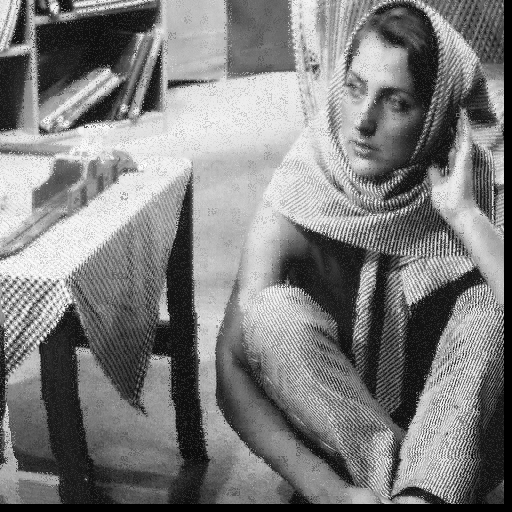
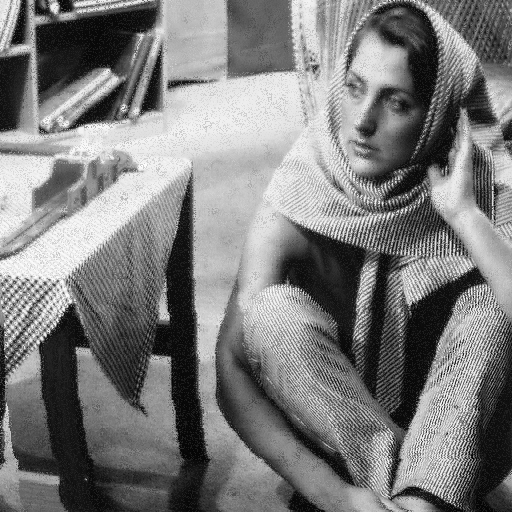
Overlapping patches fixed bug

diff --git a/DataLoader.py b/DataLoader.py
@@ -64,11 +64,11 @@ class DataLoader:
             mask_validation = np.load('./data/masks_validation/'+self._dataset['mask_validation'][kk]+'.npy')
 
             # Iterate over the first dimension of the image with an x-step
-            for ii in range(0,image.shape[0]-self._patch_dims[0],self._step[0]):
+            for ii in range(0,image.shape[0]-self._patch_dims[0]+1,self._step[0]):
                 # Ending index for the current patch extracted from the first fimensions
                 ii_end = (ii+self._patch_dims[0])
                 # Iterate over the second dimension of the image with an x-step
-                for jj in range(0,image.shape[1]-self._patch_dims[1],self._step[1]):
+                for jj in range(0,image.shape[1]-self._patch_dims[1]+1,self._step[1]):
                     
                     # Ending index for the current patch extracted from the second fimensions
                     jj_end = (jj+self._patch_dims[1])
@@ -126,27 +126,23 @@ class DataLoader:
 
             # Image to fill
             image_new = np.zeros(image.shape, dtype=int)
-            
-
 
             # Go over the first image dimension with a step
-            for ii in range(0,image.shape[0]-self._patch_dims[0],self._step[0]):
+            for ii in range(0,image.shape[0]-self._patch_dims[0]+1,self._step[0]):
                 
                 # End index in the first dimension
                 ii_end = (ii+self._patch_dims[0])
 
                 # Go over the second dimension 
-                for jj in range(0,image.shape[1]-self._patch_dims[1],self._step[1]):
-
-                    im_ptch = np.zeros(self._patch_dims,dtype=int)
+                for jj in range(0,image.shape[1]-self._patch_dims[1]+1,self._step[1]):
 
                     # End index in the second dimension
                     jj_end = jj+self._patch_dims[1]
 
-                    im_ptch = im_ptch + np.divide(patches[cnt], self._merging_map[kk, ii:ii_end, jj:jj_end])
+                    image_new[ii:ii_end,jj:jj_end] = image_new[ii:ii_end,jj:jj_end] + np.divide(patches[cnt], self._merging_map[kk, ii:ii_end, jj:jj_end])
 
                     # Only insert reconstructed (missing before values)
-                    image_new[ii:ii_end,jj:jj_end] = np.multiply(im_ptch, (1 - msk_tr[cnt]))+np.multiply(image[ii:ii_end, jj:jj_end], msk_tr[cnt])
+                    image_new[ii:ii_end,jj:jj_end] = np.multiply(image_new[ii:ii_end,jj:jj_end], (1 - msk_tr[cnt]))+np.multiply(image[ii:ii_end, jj:jj_end], msk_tr[cnt])
                     cnt = cnt+1
             #imageio.imsave(name+str(kk)+".png",im=self._merging_map[kk,:,:])
             imageio.imsave('./data/reconstructed/'+name+".png",im=image_new)

diff --git a/main.py b/main.py
@@ -33,15 +33,15 @@ i.e. decrease the magnitude of input inversly proportional to the increase in da
 
 if __name__ =="__main__":
     # Set parameters
-    patch_dims = [16,16]
+    patch_dims = [8,8]
     image_dims = [512,512]
-    steps = [2,2]
+    steps = [1,1]
     input_units = patch_dims[0]*patch_dims[1]
-    learning_rate = 0.01
+    learning_rate = 0.1
     batch_size = 32
-    epoches = 1000
+    epoches = 100
     validation_step = 2
-    hiddent_units = 128
+    hiddent_units = 32
     
     # Create dataloader
     dataLoader = DataLoader(patch_dims,image_dims,batch_size,steps)

diff --git a/Trainer.py b/Trainer.py
@@ -3,7 +3,6 @@ import sys
 import imageio
 import matplotlib.pyplot as plt
 import copy
-
 def error_plotting(xlim, error):
     plt.cla()
     plt.xlim(0, xlim)
